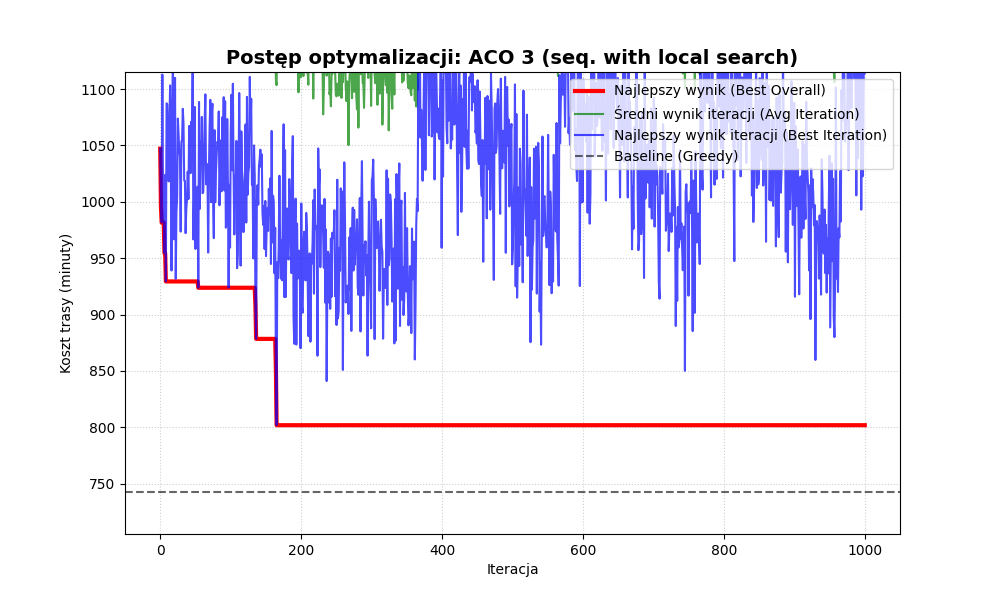
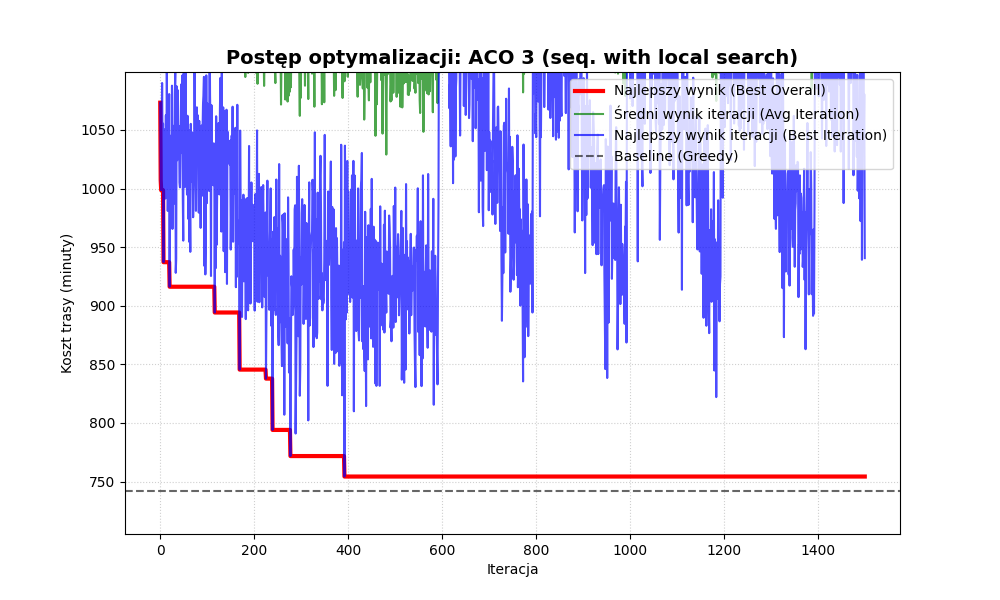
Wyniki

diff --git a/VRP3/main.py b/VRP3/main.py
@@ -26,8 +26,8 @@ def main():
 
     #  --- 1. GENERACJA DANYCH ---
     params = {
-        "ants_count": 100,
-        "n": 100,
+        "ants_count": 40,
+        "n": 40,
         "d0": 10,
         "d1": 100,
         "t0": 0,
@@ -101,43 +101,43 @@ def main():
     plotter = Plotter()
 
     aco_configs = [
-        # {
-        #     "name": "ACO 1 (without constraints)",
-        #     "save_name": "ACO_1",
-        #     "class": ACO_for_VRP_1,
-        #     "params": {"ants": ants_count, "iterations": 10000, "alpha": 1, "beta": 2, "evaporation": 0.05,
-        #                "patience": 1500, "patience_small_shake": 80, "patience_big_shake": 300,
-        #                "big_shake_evaporation": 0.2, "big_shake_duration": 20,
-        #                "intensity_small_shake": 0.1, "intensity_big_shake": 0.3, "intensity_elite_ant": 0.2,
-        #                "q_pheromone": 1000.0, "tau_min": 0.01, "tau_max": 10.0}
-        # },
-        # {
-        #     "name": "ACO 2 (seq.)",
-        #     "save_name": "ACO_2",
-        #     "class": ACO_for_VRP_2,
-        #     "params": {"ants": ants_count, "iterations": 10000, "alpha": 1, "beta": 2, "evaporation": 0.05,
-        #                "patience": 1500, "patience_small_shake": 80, "patience_big_shake": 300,
-        #                "big_shake_evaporation": 0.2, "big_shake_duration": 20,
-        #                "intensity_small_shake": 0.1, "intensity_big_shake": 0.3, "intensity_elite_ant": 0.2,
-        #                "q_pheromone": 1000.0, "tau_min": 0.01, "tau_max": 10.0}
-        # },
-        # {
-        #     "name": "ACO 3 (seq. with local search)",
-        #     "save_name": "ACO_3",
-        #     "class": ACO_for_VRP_3,
-        #     "params": {"ants": ants_count, "iterations": 1000, "alpha": 1, "beta": 2, "evaporation": 0.05,
-        #                "patience": 200}
-        # },
-        # {
-        #     "name": "ACO 4 (seq. with depot)",
-        #     "save_name": "ACO_4",
-        #     "class": ACO_for_VRP_4,
-        #     "params": {"ants": ants_count, "iterations": 10000, "alpha": 1, "beta": 1.5, "evaporation": 0.05,
-        #                "patience": 1500, "patience_small_shake": 80, "patience_big_shake": 300,
-        #                "big_shake_evaporation": 0.2, "big_shake_duration": 20,
-        #                "intensity_small_shake": 0.1, "intensity_big_shake": 0.3, "intensity_elite_ant": 0.2,
-        #                "q_pheromone": 1000.0, "tau_min": 0.01, "tau_max": 10.0}
-        # },
+        {
+            "name": "ACO 1 (without constraints)",
+            "save_name": "ACO_1",
+            "class": ACO_for_VRP_1,
+            "params": {"ants": ants_count, "iterations": 10000, "alpha": 1, "beta": 2, "evaporation": 0.05,
+                       "patience": 1500, "patience_small_shake": 80, "patience_big_shake": 300,
+                       "big_shake_evaporation": 0.2, "big_shake_duration": 20,
+                       "intensity_small_shake": 0.1, "intensity_big_shake": 0.3, "intensity_elite_ant": 0.2,
+                       "q_pheromone": 1000.0, "tau_min": 0.01, "tau_max": 10.0}
+        },
+        {
+            "name": "ACO 2 (seq.)",
+            "save_name": "ACO_2",
+            "class": ACO_for_VRP_2,
+            "params": {"ants": ants_count, "iterations": 10000, "alpha": 1, "beta": 2, "evaporation": 0.05,
+                       "patience": 1500, "patience_small_shake": 80, "patience_big_shake": 300,
+                       "big_shake_evaporation": 0.2, "big_shake_duration": 20,
+                       "intensity_small_shake": 0.1, "intensity_big_shake": 0.3, "intensity_elite_ant": 0.2,
+                       "q_pheromone": 1000.0, "tau_min": 0.01, "tau_max": 10.0}
+        },
+        {
+            "name": "ACO 3 (seq. with local search)",
+            "save_name": "ACO_3",
+            "class": ACO_for_VRP_3,
+            "params": {"ants": ants_count, "iterations": 1500, "alpha": 1, "beta": 2, "evaporation": 0.05,
+                       "patience": 200}
+        },
+        {
+            "name": "ACO 4 (seq. with depot)",
+            "save_name": "ACO_4",
+            "class": ACO_for_VRP_4,
+            "params": {"ants": ants_count, "iterations": 10000, "alpha": 1, "beta": 1.5, "evaporation": 0.05,
+                       "patience": 1500, "patience_small_shake": 80, "patience_big_shake": 300,
+                       "big_shake_evaporation": 0.2, "big_shake_duration": 20,
+                       "intensity_small_shake": 0.1, "intensity_big_shake": 0.3, "intensity_elite_ant": 0.2,
+                       "q_pheromone": 1000.0, "tau_min": 0.01, "tau_max": 10.0}
+        },
         {
             "name": "ACO 5 (seq. with depot & gready)",
             "save_name": "ACO_5",
